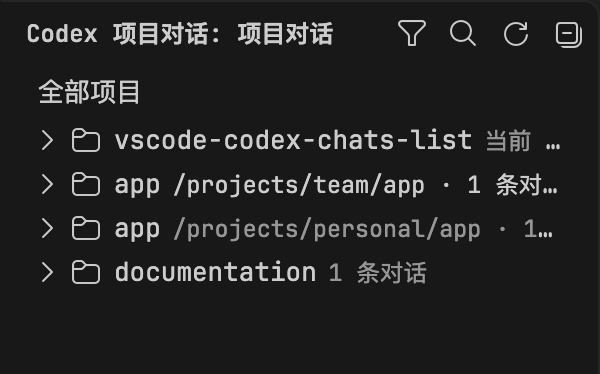
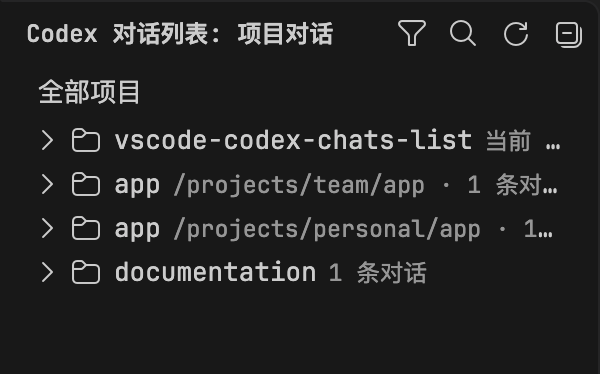
fix: isolate Codex Chats List extension identifiers

Changed region(s): [[0.27, 0.4706, 0.72, 0.5294], [0.18, 0.0588, 0.36, 0.1176], [0.78, 0.4706, 0.9, 0.5294]]

diff --git a/test/extension.test.ts b/test/extension.test.ts
@@ -15,6 +15,8 @@ const mocks = vi.hoisted(() => ({
   promptSearch: vi.fn<(options: vscode.InputBoxOptions) => Promise<string | undefined>>(),
   realpath: vi.fn<(path: string) => Promise<string>>(),
   updateScope: vi.fn<(key: string, value: unknown) => Promise<void>>(),
+  cliPath: undefined as string | undefined,
+  legacyCliPath: '/fixture/codex',
 }));
 vi.mock('../src/client', () => ({ CodexClient: class {
   constructor(...args: unknown[]) { mocks.construct(...args); }
@@ -25,9 +27,13 @@ vi.mock('../src/routing', () => ({ openInCodex: mocks.openConversation }));
 vi.mock('node:fs/promises', () => ({ access: async () => {}, realpath: mocks.realpath }));
 vi.mock('vscode', () => ({
   env: { language: 'en' },
+  extensions: { getExtension: () => ({ extensionPath: '/fixture/official' }) },
   workspace: {
     workspaceFolders: [{ uri: { scheme: 'file', fsPath: '/fixture' } }],
-    getConfiguration: () => ({ get: () => '/fixture/codex' }),
+    getConfiguration: (section: string) => ({
+      get: () => section === 'codexProjectChats' ? mocks.legacyCliPath : false,
+      inspect: () => ({ globalValue: mocks.cliPath, defaultValue: '' }),
+    }),
     onDidChangeWorkspaceFolders: () => ({ dispose() {} }),
     onDidChangeConfiguration: () => ({ dispose() {} }),
   },
@@ -87,7 +93,7 @@ async function setup() {
   mocks.createTree.mockReturnValue(view);
   const api = activate(context);
   const tree = mocks.createTree.mock.calls.at(-1)?.[1].treeDataProvider as ChatTree;
-  expect(mocks.createTree).toHaveBeenLastCalledWith('codexProjectChats.list', expect.objectContaining({ showCollapseAll: true }));
+  expect(mocks.createTree).toHaveBeenLastCalledWith('codexChatsList.list', expect.objectContaining({ showCollapseAll: true }));
   const rendered = vi.fn();
   disposables.push(tree.onDidChangeTreeData(() => {
     const nodes = tree.getChildren();
@@ -99,7 +105,7 @@ async function setup() {
     });
   }));
   const run = async (command: string, ...args: unknown[]) => {
-    const handler = mocks.registerCommand.mock.calls.find(([id]) => id === `codexProjectChats.${command}`)?.[1];
+    const handler = mocks.registerCommand.mock.calls.find(([id]) => id === `codexChatsList.${command}`)?.[1];
     if (!handler) throw new Error(`Unregistered command: ${command}`);
     await handler(...args);
   };
@@ -131,10 +137,36 @@ beforeEach(() => {
   mocks.realpath.mockReset().mockImplementation(async value => value);
   mocks.registerCommand.mockReturnValue({ dispose() {} });
   mocks.updateScope.mockReset().mockResolvedValue(undefined);
+  mocks.cliPath = undefined;
+  mocks.legacyCliPath = '/fixture/codex';
 });
 afterEach(() => {
   for (const disposable of disposables.splice(0)) disposable.dispose();
   vi.useRealTimers();
+});
+
+test('all commands use the fork namespace and open focuses the fork view', async () => {
+  const fixture = await setup();
+  expect(mocks.registerCommand.mock.calls.map(([id]) => id)).toEqual([
+    'codexChatsList.open', 'codexChatsList.refresh', 'codexChatsList.selectScope',
+    'codexChatsList.showAll', 'codexChatsList.search', 'codexChatsList.clearSearch',
+    'codexChatsList.loadMore', 'codexChatsList.openConversation',
+  ]);
+  await fixture.run('open');
+  expect(mocks.executeCommand).toHaveBeenCalledWith('codexChatsList.list.focus');
+});
+
+test.each([
+  [undefined, '/fixture/codex'],
+  [' /fixture/fork-codex ', '/fixture/fork-codex'],
+  ['', /[\\/]official[\\/]bin[\\/]/],
+])('selects the CLI when the fork setting is %j', async (setting, expectedPath) => {
+  mocks.cliPath = setting;
+  const fixture = await setup();
+  await fixture.ready();
+  const binary = mocks.construct.mock.calls.at(-1)?.[0];
+  expect(binary).toEqual(typeof expectedPath === 'string' ? expectedPath : expect.stringMatching(expectedPath));
+  expect(fixture.api.snapshot().error).toBe('');
 });
 
 test('a disposed tree ignores an outstanding response and cannot publish stale state', async () => {
@@ -476,7 +508,7 @@ test('exposes conversation metadata through native rows and opens a loaded ID', 
     id: 'chat:thread-default',
     label: 'thread-default',
     tooltip: expect.stringContaining('Path: /fixture'),
-    command: { command: 'codexProjectChats.openConversation', arguments: ['thread-default'] },
+    command: { command: 'codexChatsList.openConversation', arguments: ['thread-default'] },
   });
   await fixture.run('openConversation', 'thread-default');
   await fixture.run('openConversation', 'missing');
@@ -509,6 +541,6 @@ test('shows paths for same-named projects and exposes pagination as a native row
   expect(items).toEqual([
     expect.objectContaining({ id: 'project:/personal/app', label: 'app', description: '/personal/app · 1 chat' }),
     expect.objectContaining({ id: 'project:/team/app', label: 'app', description: '/team/app · 1 chat' }),
-    expect.objectContaining({ id: 'more', command: { command: 'codexProjectChats.loadMore', title: 'Load more conversations' } }),
+    expect.objectContaining({ id: 'more', command: { command: 'codexChatsList.loadMore', title: 'Load more conversations' } }),
   ]);
 });

diff --git a/src/extension.ts b/src/extension.ts
@@ -12,10 +12,17 @@ const OFFICIAL_ID = 'openai.chatgpt';
 const AUTO_REFRESH_MS = 5_000;
 const MINUTE_MS = 60_000;
 const SEARCH_LIMIT = 200;
+const LEGACY_CONFIG_SECTION = 'codexProjectChats';
 type LoadMode = 'replace' | 'append' | 'poll';
 
+function ownCliPath(): string | undefined {
+  const setting = vscode.workspace.getConfiguration('codexChatsList').inspect<string>('cliPath');
+  return setting?.workspaceFolderValue ?? setting?.workspaceValue ?? setting?.globalValue;
+}
+
 async function getBinary(): Promise<string> {
-  const configured = vscode.workspace.getConfiguration('codexProjectChats').get<string>('cliPath', '').trim();
+  const configured = (ownCliPath()
+    ?? vscode.workspace.getConfiguration(LEGACY_CONFIG_SECTION).get<string>('cliPath', '')).trim();
   if (configured) {
     if (!path.isAbsolute(configured)) throw new Error(t('errorAbsolutePath'));
     await access(configured);
@@ -127,7 +134,7 @@ class CodexChatsListView implements vscode.Disposable {
     const search = value.slice(0, SEARCH_LIMIT).trim();
     if (search === this.search || this.disposed) return;
     this.search = search;
-    void vscode.commands.executeCommand('setContext', 'codexProjectChats.hasSearch', Boolean(search));
+    void vscode.commands.executeCommand('setContext', 'codexChatsList.hasSearch', Boolean(search));
     await this.refresh();
   }
 
@@ -286,23 +293,25 @@ class CodexChatsListView implements vscode.Disposable {
   }
 }
 
-/** Keep the published view ID to preserve access through the existing sidebar entry. */
 export function activate(context: vscode.ExtensionContext) {
   const provider = new CodexChatsListView(context);
   const view = vscode.window.createTreeView(VIEW_ID, { treeDataProvider: provider.tree, showCollapseAll: true });
   context.subscriptions.push(provider,
     view,
-    vscode.commands.registerCommand('codexProjectChats.open', () => vscode.commands.executeCommand(`${VIEW_ID}.focus`)),
-    vscode.commands.registerCommand('codexProjectChats.refresh', () => provider.refresh()),
-    vscode.commands.registerCommand('codexProjectChats.selectScope', () => provider.pickScope()),
-    vscode.commands.registerCommand('codexProjectChats.showAll', () => provider.setScope('all')),
-    vscode.commands.registerCommand('codexProjectChats.search', () => provider.promptSearch()),
-    vscode.commands.registerCommand('codexProjectChats.clearSearch', () => provider.setSearch('')),
+    vscode.commands.registerCommand('codexChatsList.open', () => vscode.commands.executeCommand(`${VIEW_ID}.focus`)),
+    vscode.commands.registerCommand('codexChatsList.refresh', () => provider.refresh()),
+    vscode.commands.registerCommand('codexChatsList.selectScope', () => provider.pickScope()),
+    vscode.commands.registerCommand('codexChatsList.showAll', () => provider.setScope('all')),
+    vscode.commands.registerCommand('codexChatsList.search', () => provider.promptSearch()),
+    vscode.commands.registerCommand('codexChatsList.clearSearch', () => provider.setSearch('')),
     vscode.commands.registerCommand(LOAD_MORE, () => provider.more()),
     vscode.commands.registerCommand(OPEN_CONVERSATION, (id: string) => provider.open(id)),
     vscode.workspace.onDidChangeWorkspaceFolders(() => { void provider.refreshIfLoaded(); }),
     vscode.workspace.onDidChangeConfiguration(event => {
-      if (event.affectsConfiguration('codexProjectChats.cliPath')) void provider.refreshIfLoaded();
+      if (event.affectsConfiguration('codexChatsList.cliPath')
+        || (event.affectsConfiguration(`${LEGACY_CONFIG_SECTION}.cliPath`) && ownCliPath() === undefined)) {
+        void provider.refreshIfLoaded();
+      }
     }));
   provider.attach(view);
   return { snapshot: () => provider.snapshot() };

diff --git a/src/tree.ts b/src/tree.ts
@@ -4,9 +4,9 @@ import { createLocalizer, localization } from './i18n';
 import type { Chat, ProjectGroup, Scope } from './model';
 import { createTimeFormatter } from './time';
 
-export const VIEW_ID = 'codexProjectChats.list';
-export const OPEN_CONVERSATION = 'codexProjectChats.openConversation';
-export const LOAD_MORE = 'codexProjectChats.loadMore';
+export const VIEW_ID = 'codexChatsList.list';
+export const OPEN_CONVERSATION = 'codexChatsList.openConversation';
+export const LOAD_MORE = 'codexChatsList.loadMore';
 
 type ProjectNode = {
   kind: 'project';

diff --git a/scripts/verify-vsix.py b/scripts/verify-vsix.py
@@ -11,8 +11,12 @@ with ZipFile(archive) as package:
     packed = json.loads(package.read("extension/package.json"))
     for field in ("name", "publisher", "displayName", "version", "repository", "homepage", "bugs", "main"):
         assert packed[field] == manifest[field], f"Manifest mismatch: {field}"
-    views = packed["contributes"]["views"]["codexProjectChats"]
-    assert len(views) == 1 and views[0]["id"] == "codexProjectChats.list" and views[0]["type"] == "tree"
+    contributions = packed["contributes"]
+    assert "codexProjectChats" not in json.dumps(contributions), "Upstream contribution ID"
+    assert "onView:codexChatsList.list" in packed["activationEvents"]
+    assert "codexProjectChats" not in json.dumps(packed["activationEvents"]), "Upstream activation event"
+    views = contributions["views"]["codexChatsList"]
+    assert len(views) == 1 and views[0]["id"] == "codexChatsList.list" and views[0]["type"] == "tree"
     for name in ("extension/readme.md", "extension/changelog.md", "extension/LICENSE.txt",
                  "extension/README.zh-CN.md", "extension/SUPPORT.md", "extension/media/icon.png",
                  "extension/dist/extension/extension.js", "extension/dist/extension/tree.js",
@@ -24,6 +28,7 @@ with ZipFile(archive) as package:
             "extension/package.nls.json", "extension/package.nls.zh.json", "extension/package.nls.zh-cn.json"}
     translations = [json.loads(package.read(name)) for name in sorted(docs) if '/package.nls' in name]
     assert all(set(bundle) == set(translations[0]) for bundle in translations), "Incomplete packaged translations"
+    assert all("command:codexChatsList.showAll" in bundle["welcome.noWorkspace"] for bundle in translations)
     for name in names:
         assert name in ("extension.vsixmanifest", "[Content_Types].xml") or name in docs or name.startswith(allowed), f"Unexpected file: {name}"
     readme = package.read("extension/readme.md").decode()

diff --git a/README.md b/README.md
@@ -2,7 +2,7 @@
 
 English · [简体中文](README.zh-CN.md)
 
-Browse Codex conversations by project, then continue in the official Codex sidebar. Version 1.2.0 uses a native VS Code tree with project groups, title search, and pagination.
+Browse Codex conversations by project, then continue in the official Codex sidebar. The native VS Code tree supports project groups, title search, and pagination.
 
 ## Install and browse
 
@@ -43,13 +43,13 @@ The manifest requires VS Code 1.100 or newer. The extension follows the VS Code 
 | Situation | Guidance |
 | --- | --- |
 | Empty current-project tree | The saved working directory must match a workspace root. Select **All projects** for sessions started in a subdirectory or worktree. |
-| Codex binary unavailable | Enable the official extension or set `codexProjectChats.cliPath` to an absolute executable path on the current host. |
+| Codex binary unavailable | Enable the official extension or set `codexChatsList.cliPath` to an absolute executable path on the current host. |
 | Opening a conversation fails | Open the official Codex sidebar and retry. Include both extension versions when reporting the issue, since the navigation URI comes from the official extension. |
 | WSL, SSH, or a container | Install both extensions in the remote workspace. History stays on each host. For Windows with Codex running in WSL, open the project in a WSL window. |
 
 The extension reads conversation IDs, titles, working directories, and recent conversation times from the local bundled `codex app-server`. It uses `thread/list` with `useStateDbOnly`. When a title is missing, the server's first-message preview can supply the label. The official executable manages its internal state and logs. Navigation uses the official extension's existing `/local/<id>` URI handler.
 
-Disable the upstream extension or its old prototype before enabling Codex Chats List to avoid duplicate views. Codex stores conversations independently.
+Codex Chats List 1.2.1 can run alongside Codex Project Chats. When `codexChatsList.cliPath` is unset, the fork reads the previous `codexProjectChats.cliPath` value. Set the new key to an empty string to use the official extension's bundled executable. If you assigned a shortcut to the fork's open or refresh command, update it to `codexChatsList.open` or `codexChatsList.refresh`. You can move the new activity bar entry to your preferred position.
 
 ## Development and support
 

diff --git a/DESIGN.md b/DESIGN.md
@@ -2,7 +2,7 @@
 
 ## 项目树承接浏览和续聊
 
-扩展通过 `createTreeView` 注册原生侧栏，使用原有视图 ID、命令和设置。树有项目、对话和加载更多三种节点。同名项目显示完整路径，项目内按最近对话时间从新到旧排列。当前项目默认展开，其他项目默认收起。标题栏提供范围、标题筛选、清空筛选和刷新操作。原生提示显示完整标题、最近对话时间和路径。
+扩展通过 `createTreeView` 注册原生侧栏。视图、命令和设置使用 `codexChatsList` 前缀，可与上游扩展共存。树有项目、对话和加载更多三种节点。同名项目显示完整路径，项目内按最近对话时间从新到旧排列。当前项目默认展开，其他项目默认收起。标题栏提供范围、标题筛选、清空筛选和刷新操作。原生提示显示完整标题、最近对话时间和路径。
 
 `src/tree.ts` 把宿主缓存转换成树节点，使用由路径或会话 ID 派生的稳定节点 ID。筛选时使用独立节点 ID，匹配项目默认展开。清空筛选后，原生树读取先前记录的展开偏好。选择会话节点时，`src/routing.ts` 通过当前窗口的 URI 调用官方 Codex 侧栏。
 

diff --git a/SECURITY.md b/SECURITY.md
@@ -10,4 +10,4 @@ Use [GitHub private vulnerability reporting](https://github.com/jaypume/vscode-c
 
 Describe the affected version, attack requirements, impact, and a minimal reproduction using synthetic data. Do not send real Codex databases or authentication material.
 
-The extension reads local conversation metadata through the official app-server and forwards navigation to the official extension. A malicious executable configured through `codexProjectChats.cliPath`, an untrusted official extension, and vulnerabilities in upstream software need separate assessment. Report upstream-only problems through the [upstream security policy](https://github.com/cixiangtao/codex-project-chats/security/policy).
+The extension reads local conversation metadata through the official app-server and forwards navigation to the official extension. A malicious executable configured through `codexChatsList.cliPath` or its legacy fallback, an untrusted official extension, and vulnerabilities in upstream software need separate assessment. Report upstream-only problems through the [upstream security policy](https://github.com/cixiangtao/codex-project-chats/security/policy).

diff --git a/CHANGELOG.md b/CHANGELOG.md
@@ -1,5 +1,12 @@
 # Changelog
 
+## 1.2.1
+
+### Fixed
+
+- Use separate VS Code view, command, and setting IDs so Codex Chats List can run alongside Codex Project Chats.
+- Read the previous CLI path when the new setting is unset. Update custom keybindings to use `codexChatsList.*`.
+
 ## 1.2.0
 
 ### Changed
